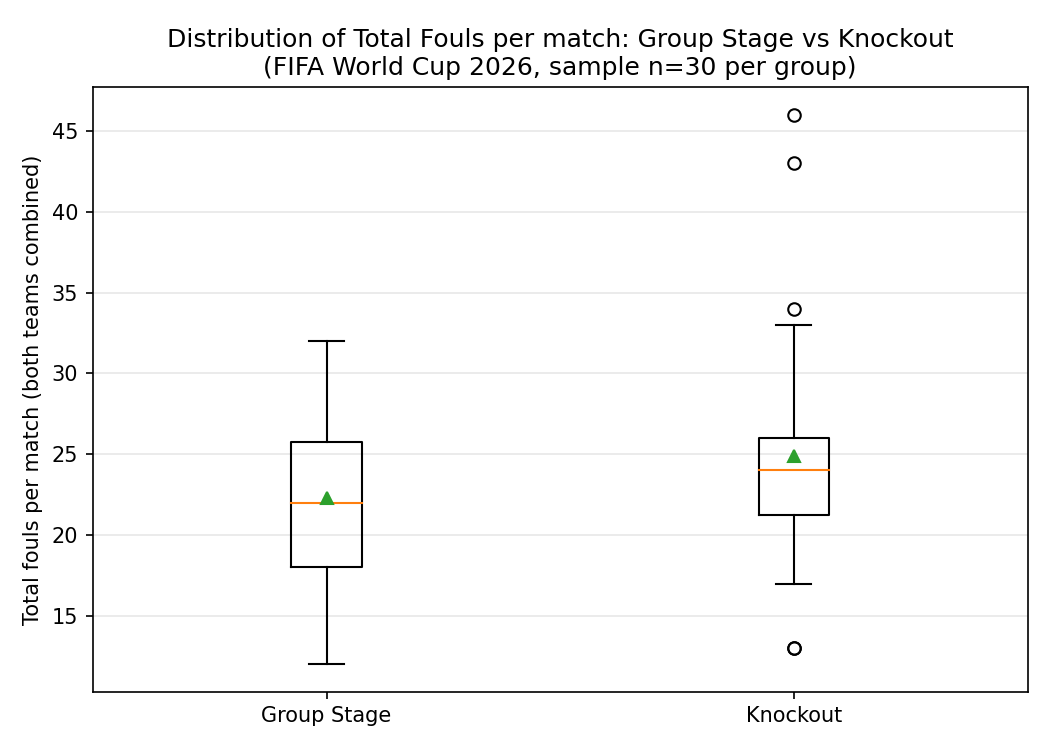
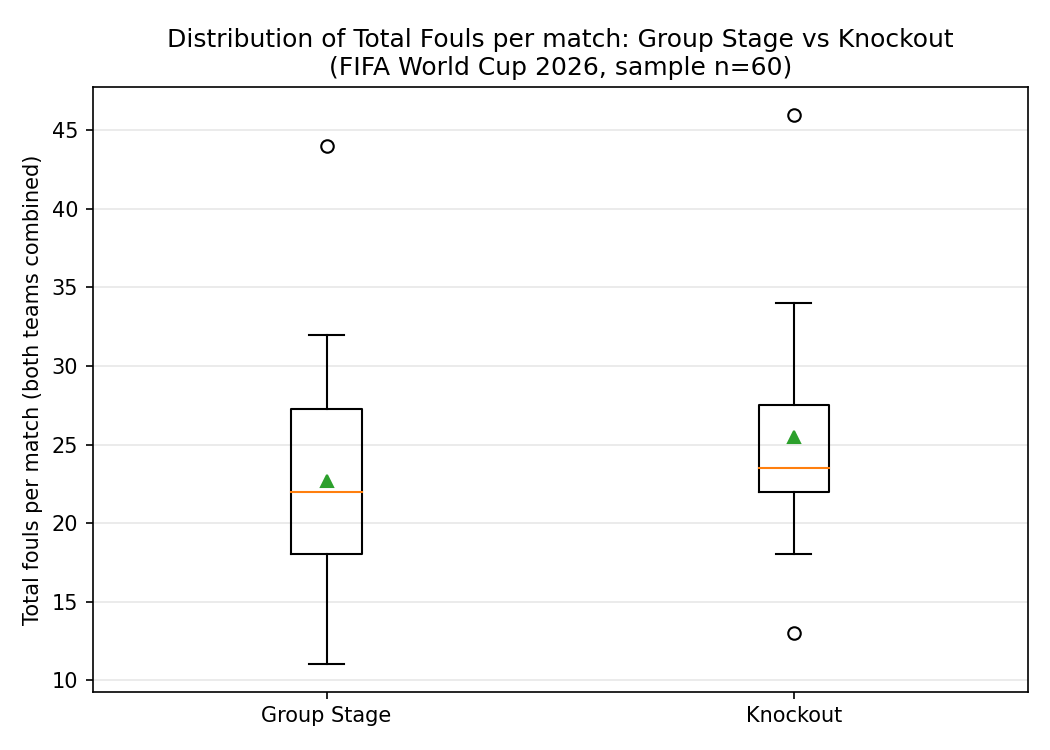
all error fix with refetched output

diff --git a/S397732_Nayandeep/5_CI.py b/S397732_Nayandeep/5_CI.py
@@ -59,9 +59,50 @@ plt.errorbar(
 )
 plt.ylabel("Mean total fouls per match")
 plt.title(f"{int(CONFIDENC_LEVEL*100)}% Confidence Intervals for Mean Total "
-          f"Fouls per Match\n (FIFA World Cup 2026, sample n=30 per group)")
+          f"Fouls per Match\n (FIFA World Cup 2026, sample n=60)")
 plt.grid(axis="y", alpha=0.3)
 plt.tight_layout()
 plt.savefig("confidence_intervals_plot.png", dpi=150)
 print("\n Saved")
 plt.close()
+
+
+# CI for the difference in means
+group_stage_vals = sample[sample["Stage"] == "Group Stage"]["Total_Fouls"]
+knockout_vals = sample[sample["Stage"] == "Knockout"]["Total_Fouls"]
+
+n1,n2 = len(knockout_vals), len(group_stage_vals)
+mean_diff = knockout_vals.mean() - group_stage_vals.mean()
+
+pooled_var = (((n1 -1) * knockout_vals.var(ddof=1) +
+              (n2 -1) * group_stage_vals.var(ddof=1)) / (n1 +n2 -2))
+se_diff = np.sqrt(pooled_var * (1/n1 + 1/n2))
+
+diff_df = n1 + n2 -2
+diff_t_critical = stats.t.ppf(1 - (1 - CONFIDENC_LEVEL) / 2, diff_df)
+diff_margin = diff_t_critical * se_diff
+
+diff_lower, diff_upper = mean_diff - diff_margin, mean_diff + diff_margin
+
+print(f"\n --- {int(CONFIDENC_LEVEL*100)}% Confidence Interval for the Difference in means ---")
+print(f"Mean difference = {mean_diff:.2f}")
+print(f"Pooled SE = {se_diff:.3f}, df= {diff_df},"
+      f"t_critical = {diff_t_critical:.3f}")
+print(f"95% CI for the difference: [{diff_lower:.2f}], {diff_upper:.2f}")
+
+includes_zero = diff_lower <= 0 <= diff_upper
+if includes_zero:
+    print("\n The interval INCLUDES 0 -> consistent with a non-significant t-test result")
+else:
+    print("\n The interval EXCLUDES 0 -> consistent with a significant t-test result")
+
+diff_result = pd.DataFrame([{
+    "mean_difference": round(mean_diff, 2),
+    "se": round(se_diff, 3),
+    "df": diff_df,
+    "ci_lower": round(diff_lower, 2),
+    "ci_upper": round(diff_upper, 2),
+    "includes_zero": includes_zero,
+}])
+diff_result.to_csv("ci_difference_of_means.csv", index=False)
+print("\n Saved")

diff --git a/S397732_Nayandeep/4_DescriptiveStats.py b/S397732_Nayandeep/4_DescriptiveStats.py
@@ -40,7 +40,7 @@ groups = ["Group Stage", "Knockout"]
 data_to_plot = [sample[sample["Stage"] == g]['Total_Fouls'] for g in groups]
 plt.boxplot(data_to_plot, labels=groups, showmeans=True)
 plt.ylabel("Total fouls per match (both teams combined)")
-plt.title("Distribution of Total Fouls per match: Group Stage vs Knockout\n(FIFA World Cup 2026, sample n=30 per group)")
+plt.title("Distribution of Total Fouls per match: Group Stage vs Knockout\n(FIFA World Cup 2026, sample n=60)")
 plt.grid(axis="y", alpha = 0.3)
 plt.tight_layout()
 plt.savefig("boxplot_fouls_by_stage.png", dpi = 150)
